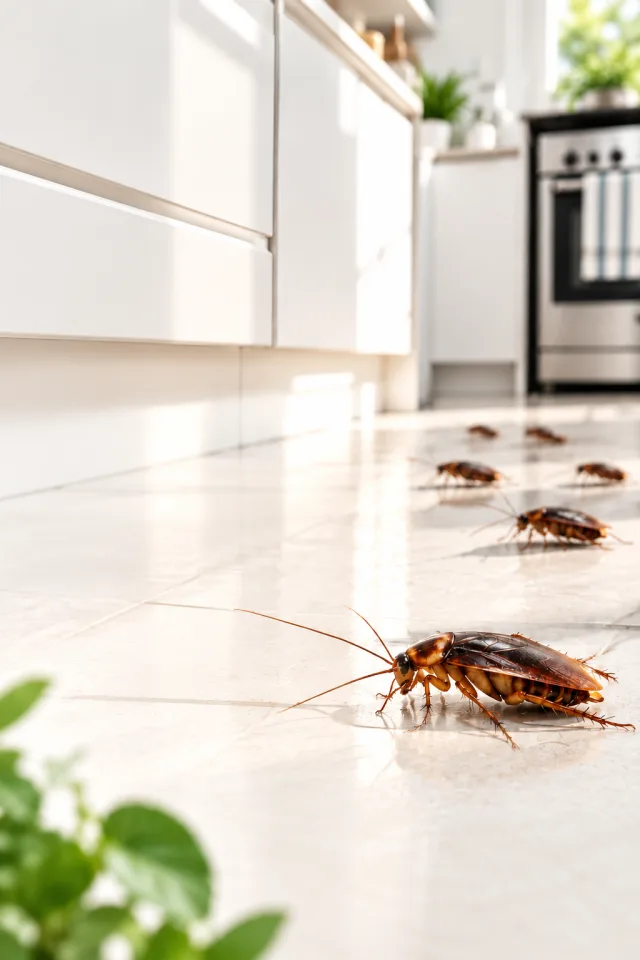
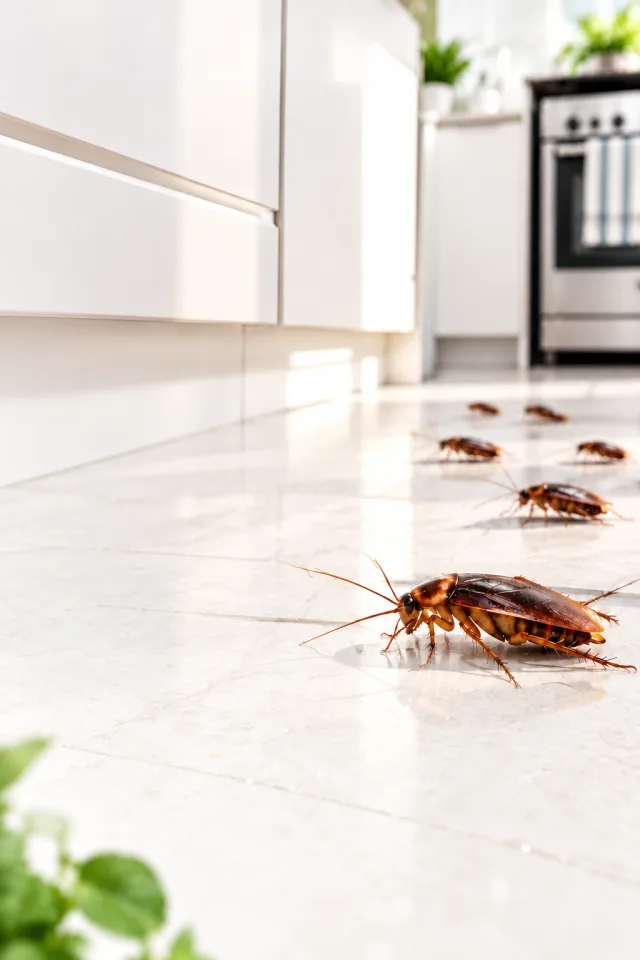
Match mobile hero reference image and palette

diff --git a/public/styles.css b/public/styles.css
@@ -235,16 +235,16 @@
  .hero{color:var(--ink);background:#fff}
  .hero-inner{width:calc(100% - 40px);min-height:clamp(600px,calc(38svh + 350px),760px);padding:clamp(180px,38svh,335px) 0 22px;justify-content:flex-start}
  .hero-photo{inset:0 auto auto 0;height:118%;object-position:60% top}
- .hero-shade{background:linear-gradient(180deg,rgba(255,255,255,.04) 0%,rgba(255,255,255,.08) 52%,rgba(255,255,255,.58) 68%,rgba(255,255,255,.94) 87%,#fff 100%)}
+ .hero-shade{background:linear-gradient(180deg,rgba(255,255,255,0) 0%,rgba(255,255,255,0) 70%,rgba(255,255,255,.32) 91%,#fff 100%)}
  .hero-copy{max-width:none;color:var(--ink)}
  .hero .eyebrow{display:none}
  .hero h1{display:block;color:#052f23;text-transform:uppercase;font-size:clamp(48px,13.3vw,58px);line-height:.9;letter-spacing:-2.8px;margin-bottom:12px;text-shadow:0 1px 0 rgba(255,255,255,.65)}
  .hero h1 br{display:block}
  .hero h1 .hero-line-light{color:var(--forest)}
- .hero h1 span{color:#078a49;text-shadow:0 1px 0 rgba(255,255,255,.7);white-space:nowrap}
+ .hero h1 span{color:#2bb66d;text-shadow:0 1px 0 rgba(255,255,255,.7);white-space:nowrap}
  .hero-promise{max-width:330px;font-size:clamp(24px,6.5vw,28px);line-height:1.08;color:#052f23;margin:0 0 12px;letter-spacing:-.7px;text-shadow:0 1px 0 rgba(255,255,255,.7)}
  .hero-description{max-width:100%;font-size:clamp(15px,4.25vw,18px);font-weight:600;line-height:1.4;color:#263b32;text-shadow:0 1px 0 rgba(255,255,255,.72);margin:0}
- .hero .button{width:100%;min-height:60px;margin-top:21px;padding:12px 18px;font-size:clamp(16px,4.8vw,20px);background:#10a85b;color:#fff;box-shadow:0 10px 24px rgba(7,91,50,.2)}
+ .hero .button{width:100%;min-height:60px;margin-top:21px;padding:12px 18px;font-size:clamp(16px,4.8vw,20px);background:linear-gradient(100deg,#079b50,#27b66b);color:#fff;box-shadow:0 10px 24px rgba(7,91,50,.2)}
  .hero .button .icon{width:26px;height:26px}
  .trust-line{grid-template-columns:repeat(3,minmax(0,1fr));max-width:none;margin-top:25px;font-size:clamp(10px,3vw,12px);color:var(--forest)}
  .trust-line span{justify-content:center;gap:7px;padding:5px 6px;border-right:1px solid #10271f26;line-height:1.18}
